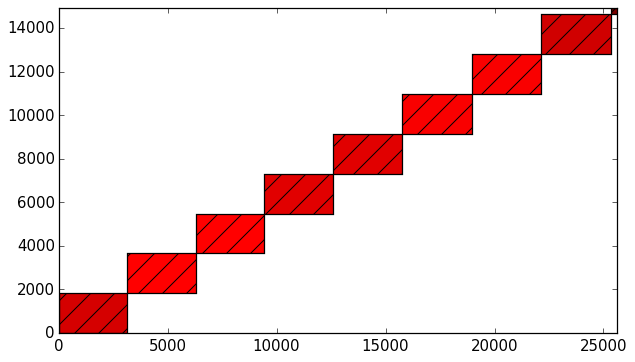
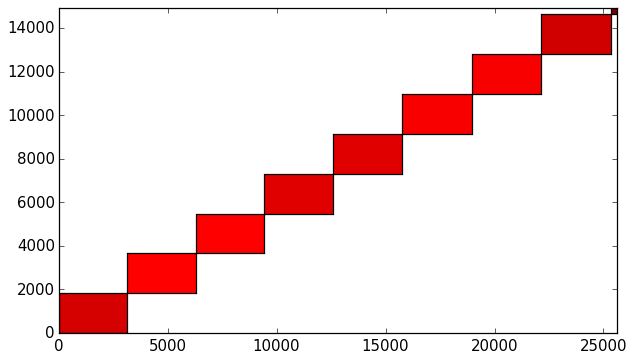
Add tree structure and ability to print Polish expression for tree.

diff --git a/initializeMatchPairs.py b/initializeMatchPairs.py
@@ -1,0 +1,158 @@
+############################################################################
+# This algorithm will read data and create an initial floorplan
+# by grouping pairs of modules based on their connectivity.
+
+
+import parseData as pd
+import printFloorplan as pfp
+import numpy as np
+import utils
+from copy import copy, deepcopy
+from classes import Rect, RectNode
+
+
+
+# Import data for benchmark
+benchmark = 'ami33'
+(rectangles,netlists,dictionary,matrix)	= pd.createAllBaseData(benchmark)
+
+
+
+def try1():
+	# Diagonalize
+	pd.diagonalizeRectangles(rectangles)
+
+
+	# Stack pairs of modules vertically or horizontally.  Iterate through all modules in order of descending connectivity.
+	matrixWorkingCopy = deepcopy(matrix)
+	newRectangles = []
+
+	while np.max(matrixWorkingCopy) > -1:
+		print(utils.getMaxOfMatrix(matrixWorkingCopy))
+		(i,j) = utils.getMaxOfMatrix(matrixWorkingCopy)
+
+		if i==j:
+			newRectangles.append(rectangles[i])
+			matrixWorkingCopy[i,i] = -1
+
+		else:
+			rectI = rectangles[i]
+			rectJ = rectangles[j]
+
+			# Nullify considered modules
+			for k in range(len(rectangles)):
+				matrixWorkingCopy[i,k] = -1
+				matrixWorkingCopy[j,k] = -1
+				matrixWorkingCopy[k,i] = -1
+				matrixWorkingCopy[k,j] = -1
+
+			# Create new intermediate modules that contain the merged modules
+			newX = min(rectI.x,rectJ.x)
+			newY = min(rectI.y,rectJ.y)
+
+			verticalStackArea = max(rectI.w,rectJ.w)*(rectI.h+rectJ.h)
+			horizontalStackArea = max(rectI.h,rectJ.h)*(rectI.w+rectJ.w)
+
+			if (verticalStackArea>horizontalStackArea):
+				newH = max(rectI.y,rectJ.y)
+				newW = rectI.w + rectJ.w
+
+				# Modify the existing rectangles (i.e., move j)
+				rectJ.x = rectI.x+rectI.w
+				rectJ.y = rectI.y
+				
+			else:
+				newH = max(rectI.y,rectJ.y)
+				newW = rectI.w + rectJ.w
+
+				# Modify the existing rectangles (i.e., move j)
+				rectJ.x = rectI.x
+				rectJ.y = rectI.y+rectI.h
+				
+			newName = rectI.name + "," + rectJ.name
+			newRect = Rect(newX,newY,newH,newW,newName)	
+			newRectangles.append(newRect)
+
+	# Remove space
+	#for r in rectangles:
+
+	pfp.printFloorplan(rectangles,"Output/temp.png")
+
+
+def try2():
+	# Stack pairs of modules vertically or horizontally.  Iterate through all modules in order of descending connectivity.
+	matrixWorkingCopy = deepcopy(matrix)
+	nodes = []
+
+	while np.max(matrixWorkingCopy) > -1:
+		#print(utils.getMaxOfMatrix(matrixWorkingCopy)) # TEST
+		(i,j) = utils.getMaxOfMatrix(matrixWorkingCopy)
+
+		if i==j:
+			node = RectNode(None,None,'rect',rectangles[i])
+			nodes.append(node)
+			matrixWorkingCopy[i,i] = -1
+
+		else:
+			rectI = rectangles[i]
+			rectJ = rectangles[j]
+
+			# Nullify considered modules
+			for k in range(len(rectangles)):
+				matrixWorkingCopy[i,k] = -1
+				matrixWorkingCopy[j,k] = -1
+				matrixWorkingCopy[k,i] = -1
+				matrixWorkingCopy[k,j] = -1
+
+			# Create new intermediate modules that contain the merged modules
+			newX = min(rectI.x,rectJ.x)
+			newY = min(rectI.y,rectJ.y)
+
+			verticalStackArea = max(rectI.w,rectJ.w)*(rectI.h+rectJ.h)
+			horizontalStackArea = max(rectI.h,rectJ.h)*(rectI.w+rectJ.w)
+			type = ''
+
+			if (verticalStackArea>horizontalStackArea):
+				newH = max(rectI.y,rectJ.y)
+				newW = rectI.w + rectJ.w
+				type = '-'
+
+				# Modify the existing rectangles (i.e., move j)
+				rectJ.x = rectI.x+rectI.w
+				rectJ.y = rectI.y
+				
+			else:
+				newH = max(rectI.y,rectJ.y)
+				newW = rectI.w + rectJ.w
+				type = '|'
+
+				# Modify the existing rectangles (i.e., move j)
+				rectJ.x = rectI.x
+				rectJ.y = rectI.y+rectI.h
+				
+
+			nodeI = RectNode(None,None,'rect',rectI)
+			nodeJ = RectNode(None,None,'rect',rectJ)
+			node = RectNode(nodeI,nodeJ,type,None)
+			nodes.append(node)
+
+	while (len(nodes)>1):
+		length = len(nodes)
+		newNodes = []
+
+		# Create new layer in tree
+		for i in xrange(0,len(nodes)-1,2):
+			newNode = RectNode(nodes[i],nodes[i+1],'-',None)
+			newNodes.append(newNode)
+		# Handle edge case where there is an unmatched odd node
+		if len(newNodes)*2<len(nodes):
+			newNodes.append(nodes[len(nodes)-1])
+
+		nodes = newNodes
+
+	root = nodes[0]
+
+	print(utils.getPolish(root))
+
+try2()
+

diff --git a/parseData.py b/parseData.py
@@ -72,8 +72,6 @@ def createConnectionMatrix(netlists, dictionary,rectangles):
 	for i in range(length):
 		rectangles[i].connections = sums[i]
 		rectangles[i].connectionsRatio = sums[i]/np.max(sums)
-		#print(sums[i])
-	#print(np.sum(sums))
 
 	return matrix
 
@@ -89,6 +87,16 @@ def createDictionary(rectangles):
 		d[keys[i]] = i
 
 	return d
+
+
+# A single function to create fundamental data used for all analyses (for a particular benchmark)
+def createAllBaseData(dataset):
+	rectangles = parseBlocks(dataset)
+	netlists = parseNetlists(dataset)
+	dictionary = createDictionary(rectangles)
+	matrix = createConnectionMatrix(netlists,dictionary,rectangles)
+
+	return (rectangles,netlists,dictionary,matrix)	
 	
 
 ################################################################################################

diff --git a/classes.py b/classes.py
@@ -18,9 +18,17 @@ class Rect:
 				(self.x,self.y),
 				self.w,
 				self.h,
-				hatch='/',
+				#hatch='/',
 	        	fill=True,	   
 	        	facecolor="#959595", 
 			)
 		return p
 ########################################################################
+
+
+class RectNode:
+	def __init__(self,left,right,type,rect):
+		self.left = left	# a RectNode or a Rect
+		self.right = right	# a RectNode or a Rect
+		self.type = type 	# "-" or "|" or "rect"
+		self.rect = rect  	# if stack == "node" then this is a Rect object

diff --git a/utils.py b/utils.py
@@ -1,0 +1,27 @@
+import numpy as np
+
+def getMaxOfMatrix(matrix):
+	maxValue = np.max(matrix)
+
+	for i in range(len(matrix)):
+		for j in range(len(matrix)):
+			if maxValue==matrix[i,j]:
+				return (i,j)
+
+	return -1
+
+
+def getPolish(root):
+	if root.type == 'rect':
+		return '\n'+root.rect.name
+
+	polish = ''
+	if (root.left is not None):
+		polish += getPolish(root.left)
+	if (root.right is not None):
+		polish += getPolish(root.right)
+
+	polish += '\n'+root.type
+
+
+	return polish
